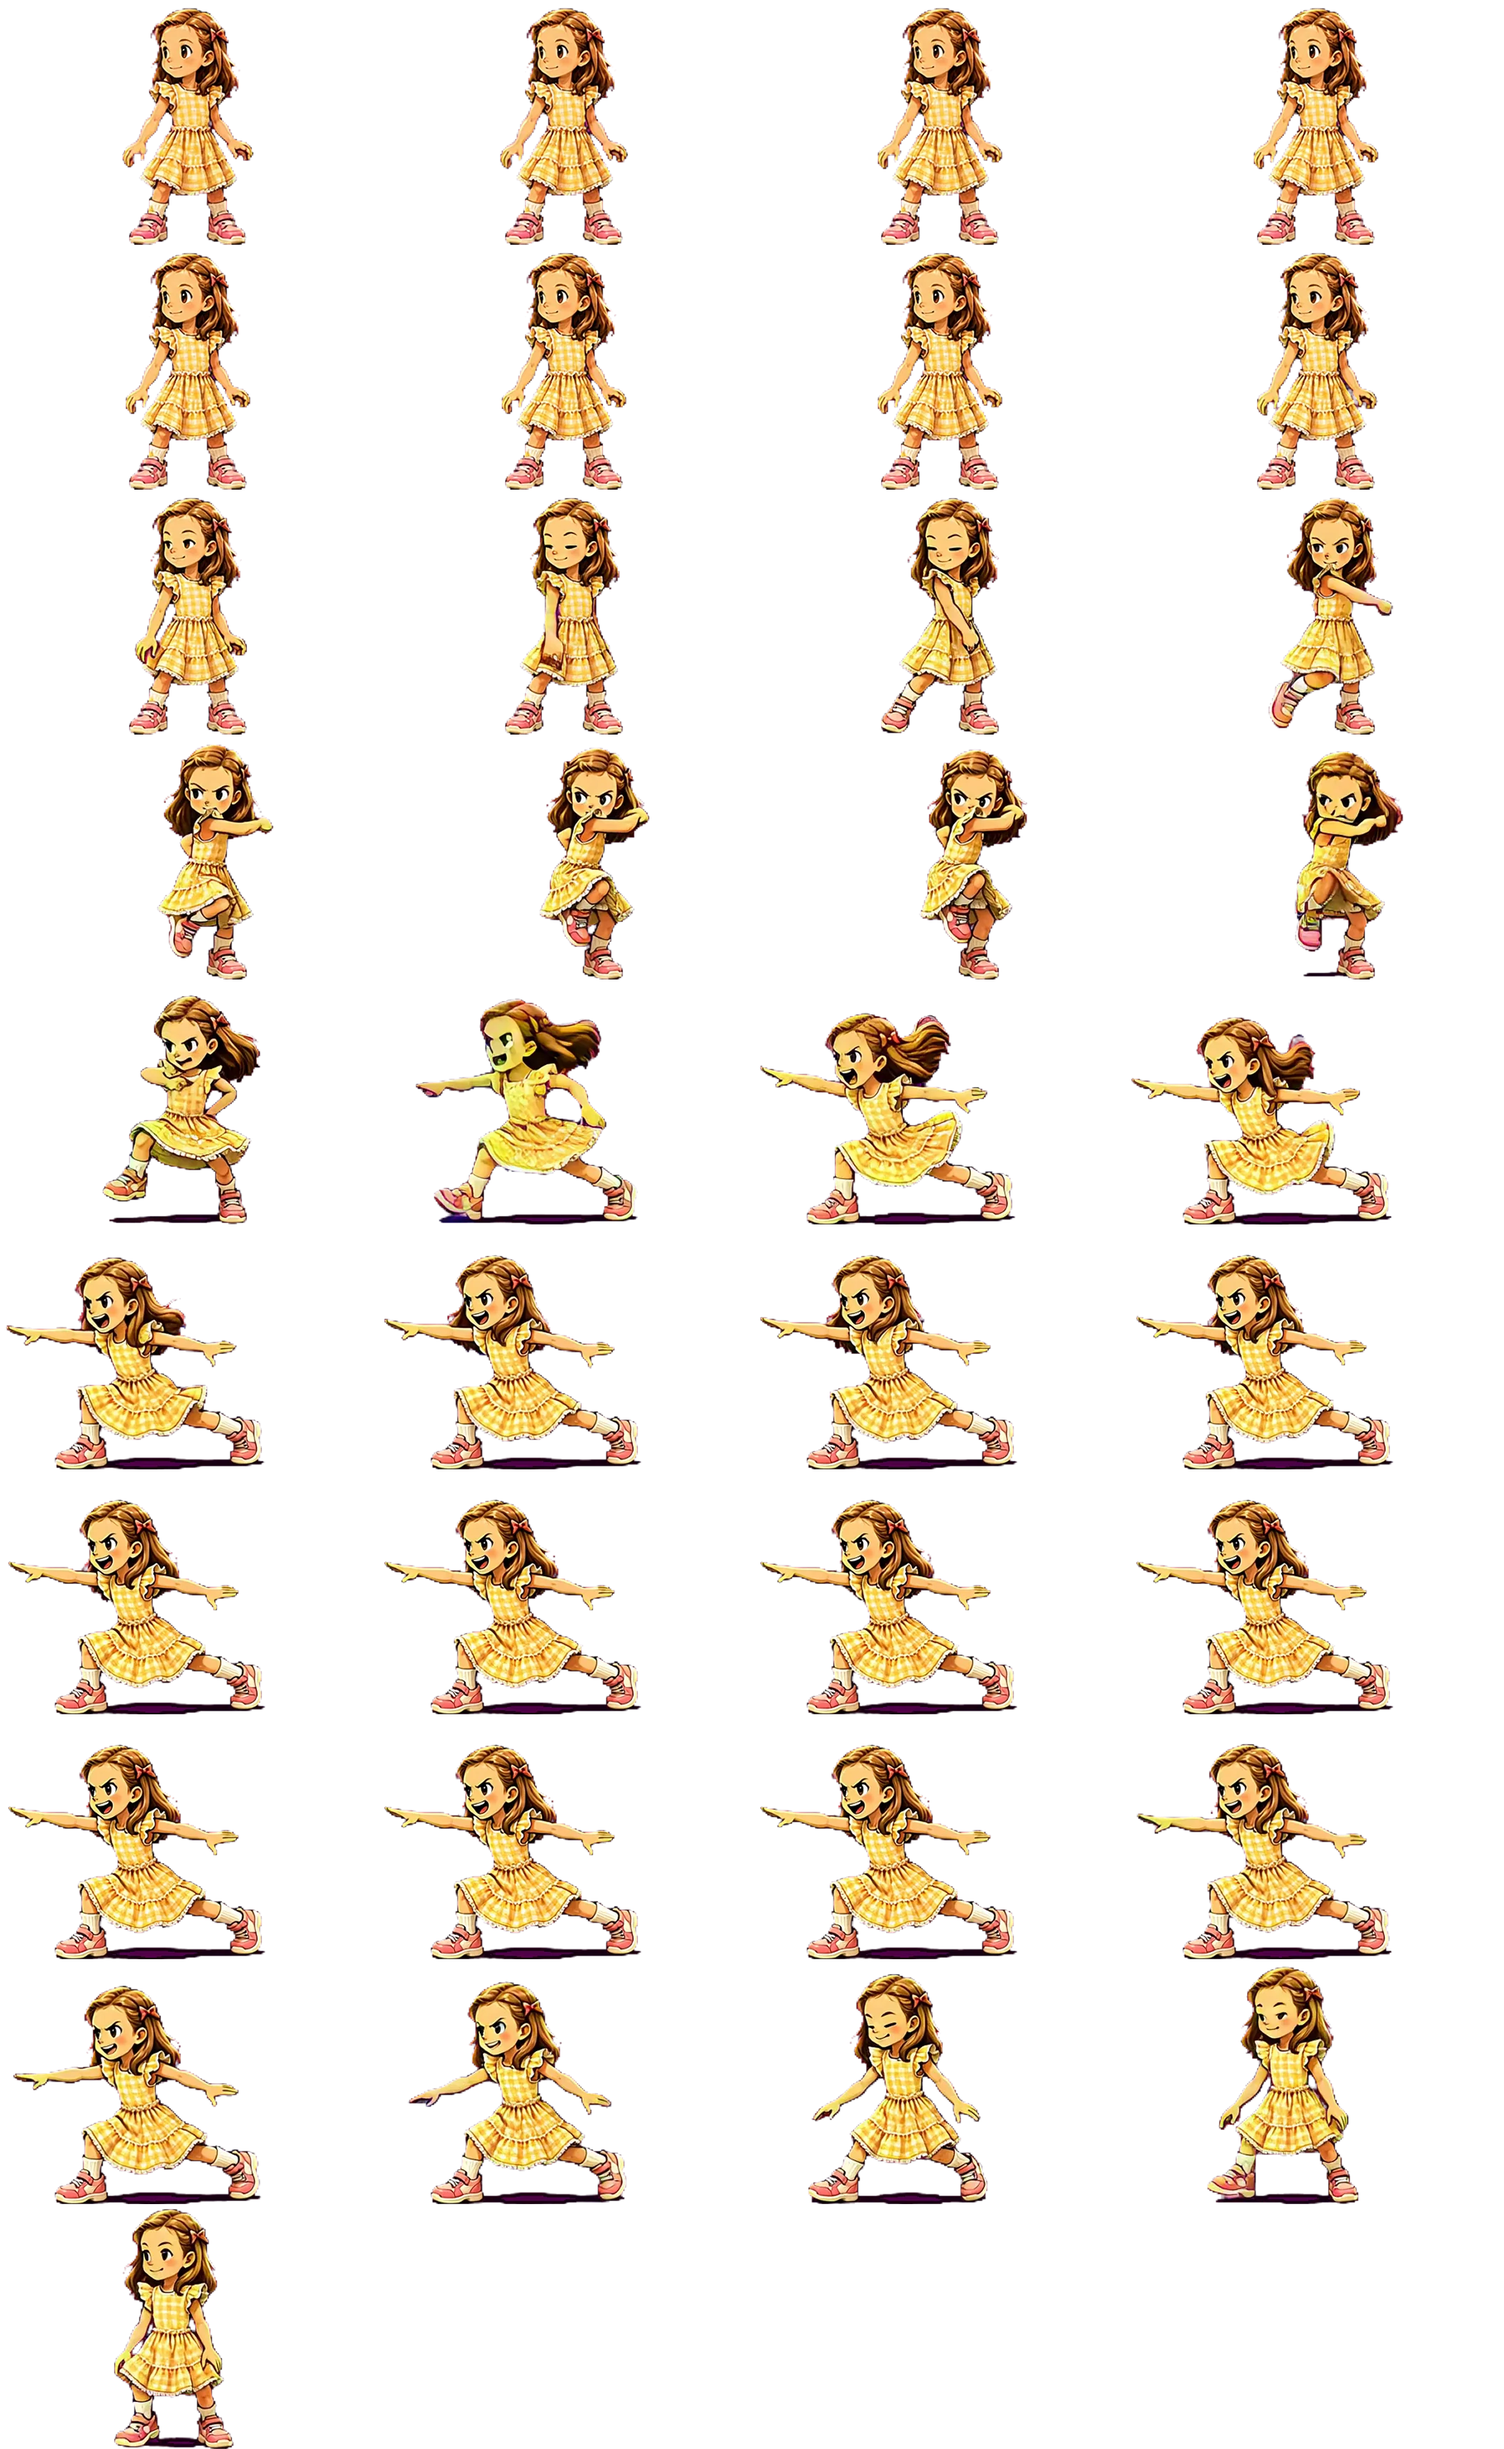
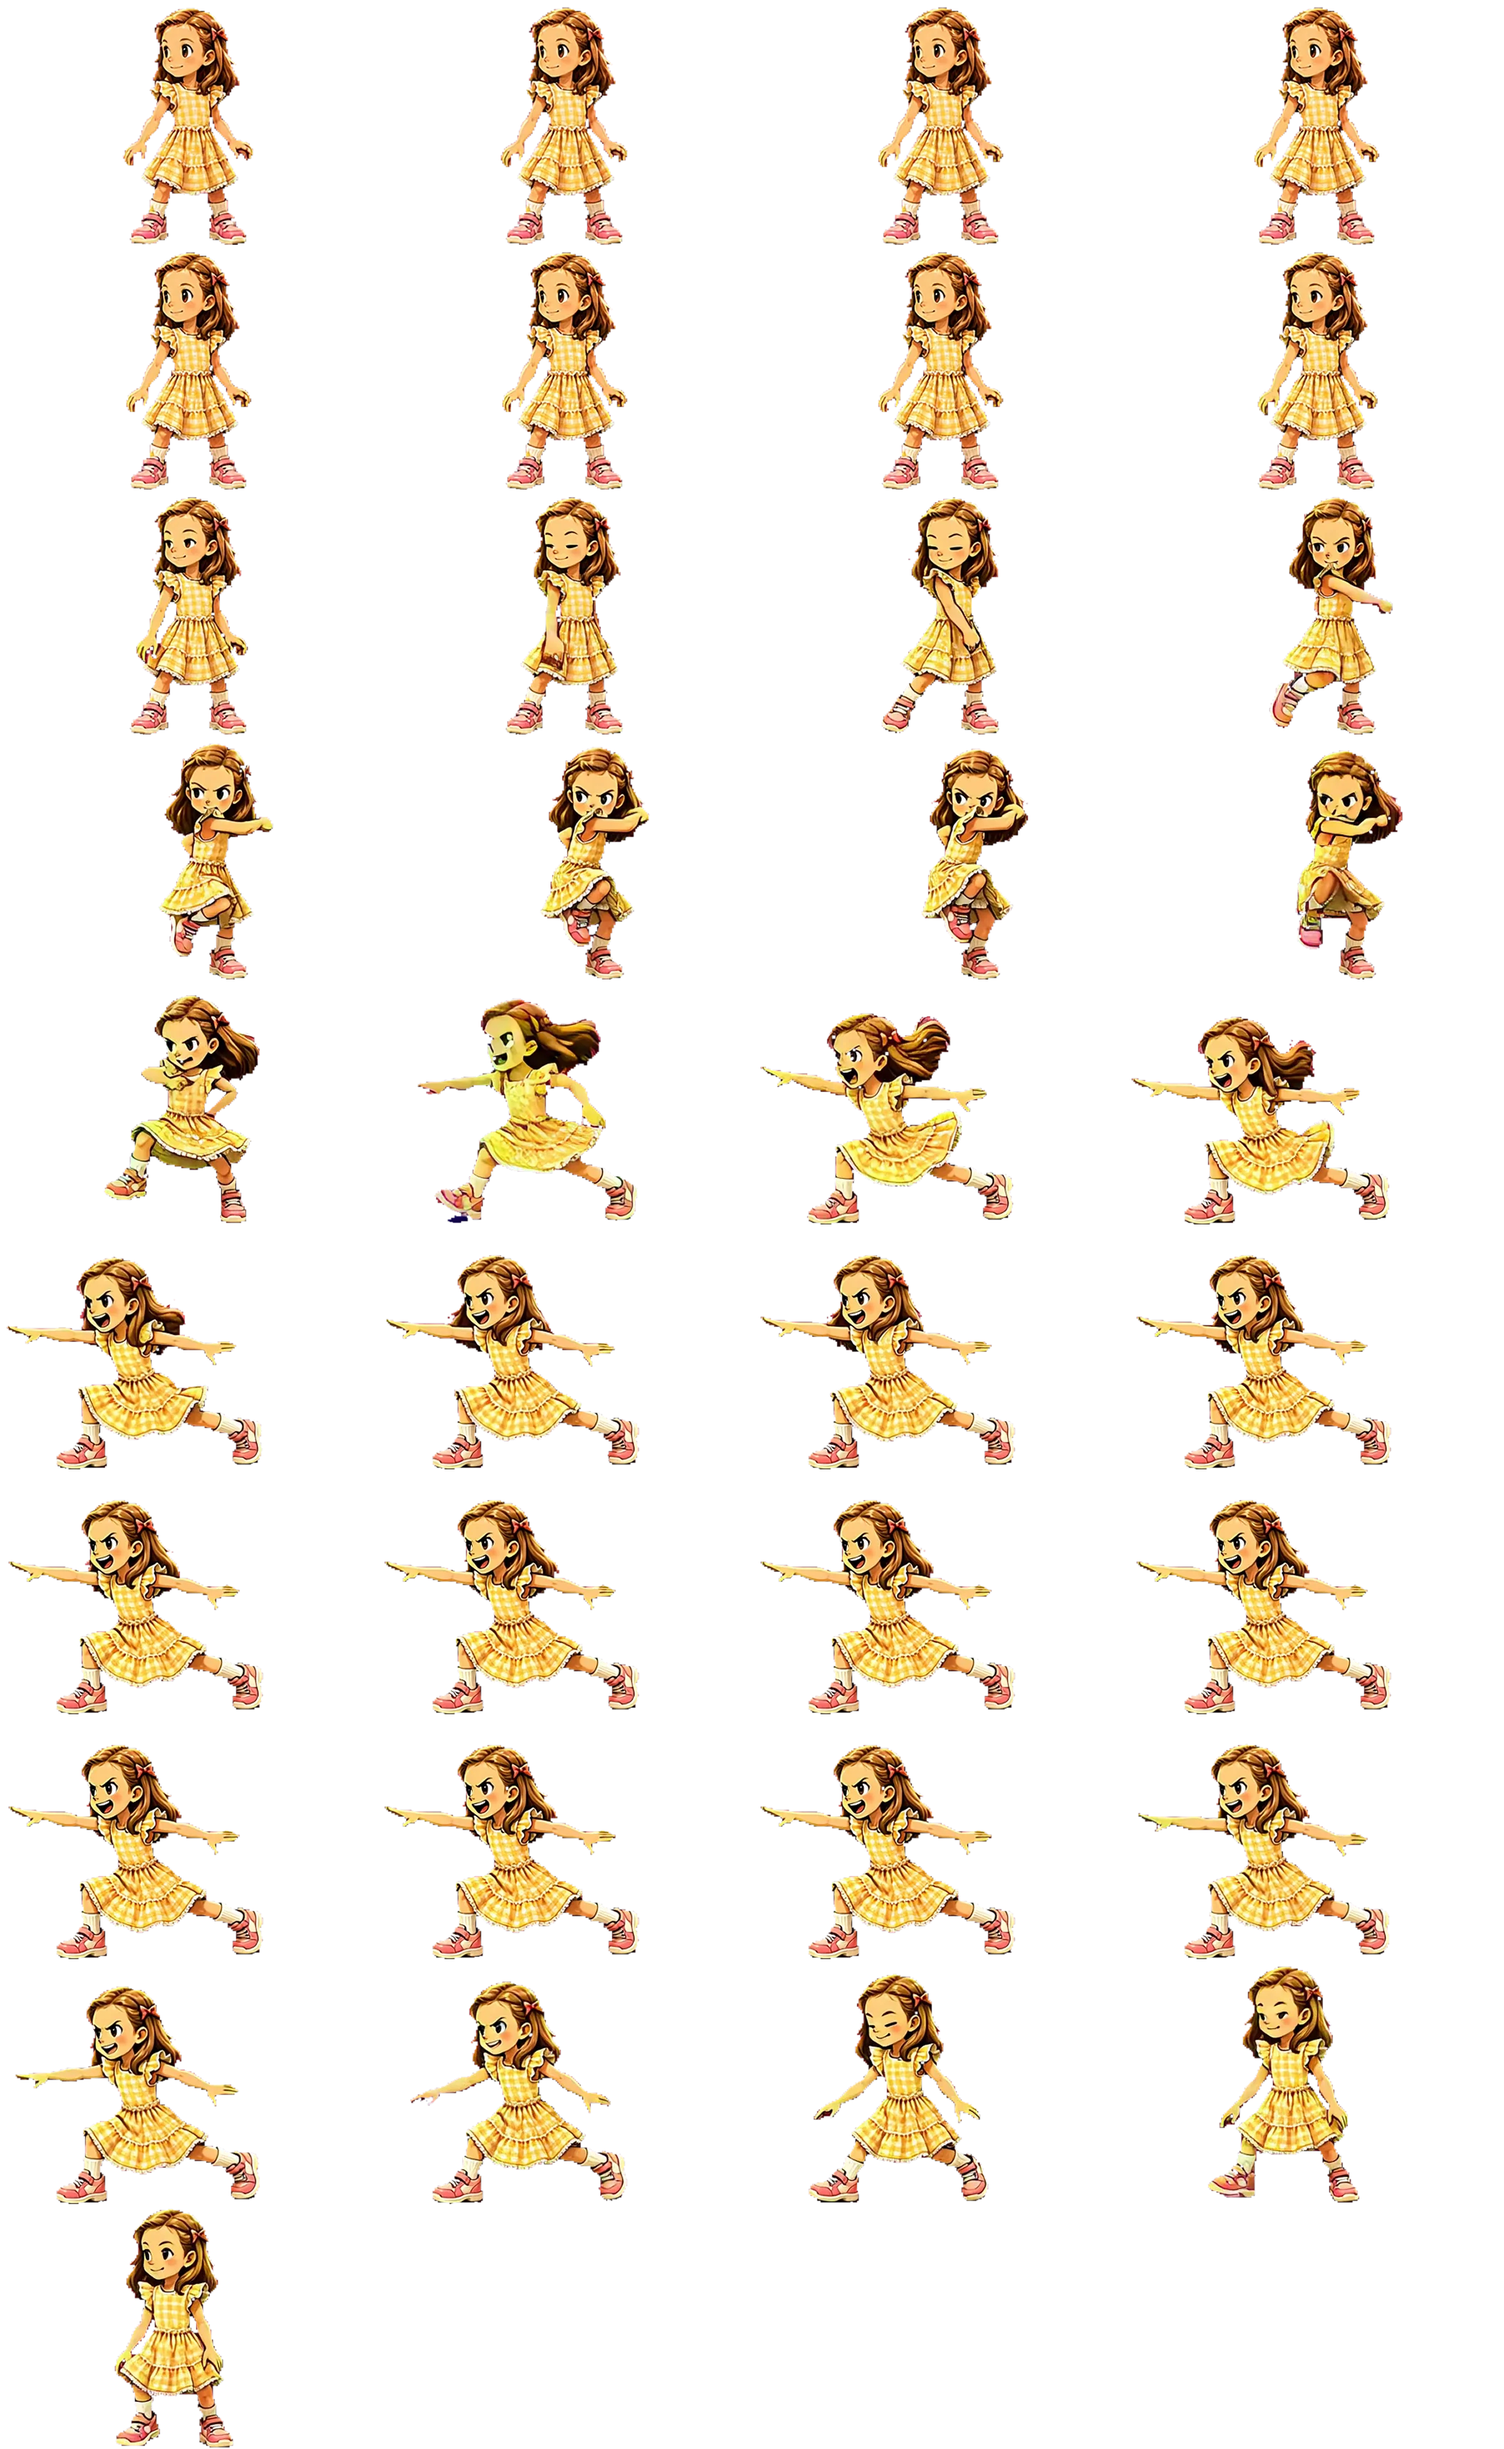
clipgen1d: Rose's Grok-made strike re-cut with the floor shadow removed; baker keys darker magenta
Claude-Session: https://claude.ai/code/session_01RXeukGTrpXKFMQfzEQfH3g

diff --git a/index.html b/index.html
@@ -1458,7 +1458,7 @@ html.landscape .mbuild{padding:4px 10px;gap:1px}
 <script src="data/recruit-rig.js"></script>
 <script src="engine/painted.js?v=clip1"></script>
 <script src="engine/clips.js?v=clip1"></script>
-<script src="data/clips/rose-strike.js?v=artbake1478"></script>
+<script src="data/clips/rose-strike.js?v=clipgen1d"></script>
 <script src="data/tombo-frames.js"></script>
 <script src="engine/tombo-frames.js"></script>
 <script src="data/tom-hires.js?v=tomboppy1"></script>
@@ -1728,13 +1728,13 @@ html.landscape .mbuild{padding:4px 10px;gap:1px}
 <script src="engine/emotions.js?v=posefaces2"></script>
 <script src="engine/script-edits.js?v=scripted2"></script><!-- Script Editor overlay: Tom's line edits applied before a scene plays (script.html) --><!-- mood faces and poses in story dialogue (batch 0: chapter 1) -->
 <script src="engine/tapwalk.js?v=bossbig1"></script><!-- tap to walk -->
-<script src="data/build-history.js?v=artbake1478"></script><!-- build names and times (tools/build_history.py) -->
+<script src="data/build-history.js?v=clipgen1d"></script><!-- build names and times (tools/build_history.py) -->
 <script src="engine/build-history.js?v=buildlog1"></script><!-- build label on the welcome screen and menu, tap for the build history -->
 <script src="engine/amber-spots.js?v=ch1rebuild1"></script><!-- orange blocks left behind are solid and answer A (amberspot1) -->
 <script src="engine/block-break.js?v=ch7t1"></script><!-- breaking an orange block: coin, cracks, colour ring, shrink-back, encounters off (ch6build stage 2) -->
 <script src="engine/scene-props.js?v=ch1rebuild1"></script><!-- drawn stand-in props a scene can put on a map: the chart, Rose rolled up, the gold ball, bulbs (ch7build stage 2) -->
 <script src="engine/video-call.js?v=ch6s4"></script><!-- the video call at the end of chapter 6: Long Island seen from Tom's porch (ch6build stage 4) -->
-<script src="engine/main.js?v=artbake1478"></script>
+<script src="engine/main.js?v=clipgen1d"></script>
 <script src="engine/music.js"></script>
 <script src="data/songs.js"></script>
 <script src="engine/music-clips.js?v=adminmusic3"></script>

diff --git a/data/clips/rose-strike.js b/data/clips/rose-strike.js
@@ -1,4 +1,4 @@
 'use strict';
 // data/clips/rose-strike.js: GENERATED by tools/clip-bake/bake_clip.py; do not hand-edit. Read by engine/clips.js.
 // Source frames 0 to 72 of the video, every 2, impact at video frame 38, played at 3.0x.
-bclipDefine("rose_strike",{"owner":"rose","src":"art/clips/rose-strike.webp?v=clip0","k":4,"w":132,"h":86,"cols":4,"n":37,"ms":[0,28,56,83,111,139,167,194,222,250,278,306,333,361,389,417,444,472,500,528,556,583,611,639,667,694,722,750,778,806,833,861,889,917,944,972,1000],"dur":1028,"impact":19,"reach":[64.8,49.9],"feet":[[-0.5,40.8],[-0.2,41.2],[-0.2,41.2],[-0.2,41.2],[-0.2,41.2],[-0.2,41.2],[-0.2,41.2],[-0.2,41.2],[-0.2,41.2],[-0.1,41.5],[-0.1,41.5],[2.2,36.8],[13.5,14.2],[13.5,14.2],[13.5,14.2],[8.1,25.0],[-3.5,48.2],[-9.2,69.2],[-10.4,73.0],[-10.2,73.2],[-10.2,73.2],[-10.0,73.8],[-10.0,73.8],[-10.0,73.8],[-10.0,73.8],[-10.0,73.8],[-10.0,73.8],[-10.0,73.8],[-10.0,73.8],[-10.0,73.8],[-10.0,73.8],[-10.2,73.2],[-10.9,72.0],[-12.9,68.0],[-15.0,62.8],[-11.8,52.8],[-5.1,42.0]]});
+bclipDefine("rose_strike",{"owner":"rose","src":"art/clips/rose-strike.webp?v=clipgen1d","k":4,"w":132,"h":86,"cols":4,"n":37,"ms":[0,28,56,83,111,139,167,194,222,250,278,306,333,361,389,417,444,472,500,528,556,583,611,639,667,694,722,750,778,806,833,861,889,917,944,972,1000],"dur":1028,"impact":19,"reach":[64.8,50.2],"feet":[[-0.1,41.0],[0.0,40.8],[0.1,40.5],[0.1,40.5],[0.0,40.8],[0.0,40.8],[0.0,40.8],[0.0,40.8],[0.0,40.8],[-0.1,41.0],[0.0,41.2],[2.8,36.2],[14.1,13.5],[14.1,13.5],[14.1,13.5],[14.4,13.0],[15.8,9.2],[-8.2,66.2],[-10.9,72.0],[-10.2,71.8],[-10.2,71.8],[-10.2,71.8],[-10.4,72.0],[-10.2,71.8],[-10.2,71.8],[-10.2,71.8],[-10.2,71.8],[-10.2,71.8],[-10.2,71.8],[-10.2,71.8],[-10.2,71.8],[-10.4,72.0],[-10.8,71.2],[-12.4,67.5],[-14.6,63.0],[-11.5,53.2],[-4.9,41.0]]});

diff --git a/engine/main.js b/engine/main.js
@@ -106,7 +106,7 @@ startSplash();
   const d=document.createElement('button');
   d.type='button'; d.id='build-stamp'; d.setAttribute('aria-label','Build history');
   // On an iPhone Duo the stamp also shows the page size and pose the game measured, so Tom can read them back (docs/DUO.md).
-  d.textContent='build artbake1478';
+  d.textContent='build clipgen1d';
   const build=d.textContent,stamp=()=>{ const w=typeof buildWhenLabel==='function'?buildWhenLabel(build.slice(6)).slice(2):'', duo=typeof duoMode!=='undefined'&&duoMode.device?window.innerWidth+'x'+window.innerHeight+(duoMode.open?' duo open':' duo folded'):'';
     d.textContent=build; for(const t of [w,duo]) if(t){ const s=document.createElement('small'); s.textContent=t; d.appendChild(s); } };
   window.BUILD_TAG=build.slice(6);

diff --git a/data/build-history.js b/data/build-history.js
@@ -1,5 +1,6 @@
 // Generated by tools/build_history.py. Do not edit by hand. Newest first.
 const BUILD_HISTORY=[
+{"tag":"clipgen1d","at":"2026-11-17T18:47:00-08:00","what":"Rose's first Grok-made punch is in the CLIP TEST fight, floor shadow removed"},
 {"tag":"artbake1478","at":"2026-11-18T02:44:52+00:00","what":""},
 {"tag":"clipgen1c","at":"2026-11-17T18:36:53-08:00","what":"Art Library: ON THE BATTLEFIELD now works for every clip video"},
 {"tag":"clipgen1b","at":"2026-11-17T18:33:57-08:00","what":"Fix: an approved clip video was not being cut into the game"},

diff --git a/tools/clip-bake/bake_clip.py b/tools/clip-bake/bake_clip.py
@@ -25,6 +25,11 @@ def key(a):
     corners = np.concatenate([a[:30, :30].reshape(-1, 3), a[:30, -30:].reshape(-1, 3)])
     bg = np.median(corners, 0)
     d = np.sqrt(((a - bg) ** 2).sum(2))
+    # A floor shadow the video model painted on the magenta is a DARKER magenta (same colour direction, less light):
+    # count it as background too. Grok's first real clip had one under the lunge (2026-11-17).
+    lum = np.linalg.norm(a, axis=2) + 1e-6
+    shade = ((a @ bg) / (lum * np.linalg.norm(bg)) > .965) & (a[..., 1] < .4 * np.maximum(a[..., 0], a[..., 2])) & (lum > 40)
+    d = np.where(shade, 0, d)
     hard = d > 95
     lab, n = ndi.label(hard)
     if n > 1:                                   # keep the big shapes only (loose specks and sparkles go)

diff --git a/docs/CHANGES.md b/docs/CHANGES.md
@@ -1,3 +1,8 @@
+## clipgen1d (2026-11-17): Rose's first Grok-made punch is in the CLIP TEST fight, floor shadow removed
+
+Tom approved clip-rose-strike v1 (Grok Imagine Video 1.5, made in the Art Library). The Action cut it (artbake1478): 37 pictures, 1.0 s at 3x, hit at 0.53 s. Seen in the frames: she is the same painting as her battle sprite (same colours and head), no sparkles, dust or burst lines, hair stays in frame. One flaw: Grok painted a dark floor shadow under the lunge. The cutter (`tools/clip-bake/bake_clip.py`) now treats darker magenta as background, and the clip was cut again with the same marks: the shadow is gone and the game's own shadow is used. `python3 tools/clip_test.py`: FAILS [].
+- Fact: installing the video tool in the Action took about 6 minutes, so a clip reaches the game about 10 minutes after APPROVE (not 5). Not fixed here.
+
 ## 2026-11-18 (449): Art Library bake, clip-rose-strike (`artbake1478`, made by the art-bake Action)
 
 - Tom approved these pictures in the Art Library; the Action baked them and moved the cache tags (tools/art-library/art_bake.py, bump_tags.py).
